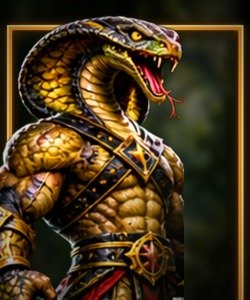
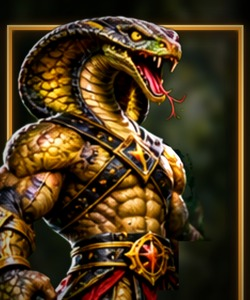
Build 5.9: Snake select card shows his right arm
Claude-Session: https://claude.ai/code/session_01Wp8cgZvzavvyA9CxcdgKRp

diff --git a/game/index.html b/game/index.html
@@ -9,15 +9,15 @@
   <meta property="og:description" content="11 armored beasts. One crown. Can you climb the Tower? Free in your browser on phone, PC or controller. No download.">
   <meta property="og:image" content="https://kingofthejunglegame.netlify.app/og-cover.jpg?v=3"><meta property="og:image:width" content="1200"><meta property="og:image:height" content="630">
   <meta name="twitter:card" content="summary_large_image"><meta name="twitter:image" content="https://kingofthejunglegame.netlify.app/og-cover.jpg?v=3">
-  <link rel="stylesheet" href="styles.css?v=5.8">
+  <link rel="stylesheet" href="styles.css?v=5.9">
 </head>
 <body>
-  <div id="splash" aria-hidden="true"><div class="splash-blur"></div><img src="assets/ui/cover.webp?v=5.8" alt="King of the Jungle cover art"><div class="splash-hint">OR PRESS ANY KEY / BUTTON</div></div>
+  <div id="splash" aria-hidden="true"><div class="splash-blur"></div><img src="assets/ui/cover.webp?v=5.9" alt="King of the Jungle cover art"><div class="splash-hint">OR PRESS ANY KEY / BUTTON</div></div>
   <script>(function(){var s=document.getElementById('splash'),done=0;function go(e){if(done)return;done=1;if(e){e.preventDefault&&e.preventDefault();e.stopPropagation&&e.stopPropagation()}s.classList.add('out');setTimeout(function(){s.remove()},700)}
   s.addEventListener('pointerdown',go);addEventListener('keydown',function(e){if(!done){go(e)}},{capture:true,once:true});(function pad(){if(done)return;var g=navigator.getGamepads?[].slice.call(navigator.getGamepads()):[];if(g.some(function(x){return x&&x.buttons.some(function(b){return b.pressed})})){go();return}requestAnimationFrame(pad)})()})();</script>
   <div id="backdrop" aria-hidden="true"><div class="bd-img bd-a"></div><div class="bd-img bd-b"></div><div class="bd-rays"></div><div class="bd-vignette"></div><canvas id="bd-embers"></canvas></div>
   <main id="app">
-    <header class="topbar"><img class="brand-crown" src="assets/ui/crown.webp" alt=""><div><div class="eyebrow">A LEGACY UNLEASHED</div><h1>KING OF THE JUNGLE</h1></div><div class="build-tag">WEB BUILD · 5.8</div></header>
+    <header class="topbar"><img class="brand-crown" src="assets/ui/crown.webp" alt=""><div><div class="eyebrow">A LEGACY UNLEASHED</div><h1>KING OF THE JUNGLE</h1></div><div class="build-tag">WEB BUILD · 5.9</div></header>
     <section id="menu" class="screen cover">
       <div class="cover-bg"></div><div class="cover-rays"></div><canvas id="embers" class="cover-embers"></canvas><div class="cover-vignette"></div>
       <div class="cover-hero"><div class="hero-glow"></div><img src="assets/characters/lion/lion-hero.webp" alt="The Lion, King of the Jungle"></div>
@@ -38,7 +38,7 @@
         </div>
       </div>
       <div class="cover-roster"><span>11 FIGHTERS · ONE THRONE</span><div id="cover-faces"></div></div>
-      <div class="cover-meta"><span id="cover-build">WEB BUILD · 5.8</span><span>© King of the Jungle · J. Hardy</span></div>
+      <div class="cover-meta"><span id="cover-build">WEB BUILD · 5.9</span><span>© King of the Jungle · J. Hardy</span></div>
     </section>
     <section id="select" class="screen hidden">
       <div class="section-head"><p class="eyebrow">CHARACTER SELECT</p><h2>CHOOSE YOUR FIGHTER</h2><p id="select-instruction">Player 1: choose a fighter</p></div>
@@ -66,7 +66,7 @@
     <section id="champion" class="screen champion-screen hidden"><canvas id="champ-canvas"></canvas><div class="champ-text"><p class="eyebrow">TOWER CONQUERED</p><h2>KING OF THE JUNGLE</h2><p class="champ-name" id="champ-name"></p><p id="champ-copy"></p><p id="champ-crowns" class="champ-crowns"></p><p id="champ-unlock" class="champ-unlock hidden">NEW FIGHTER UNLOCKED · MAJIC IS NOW PLAYABLE</p></div><div id="champ-credits" class="champ-credits"></div><button id="champ-continue" class="primary champ-continue">CONTINUE</button></section>
     <footer><span>© KING OF THE JUNGLE</span><span>Created and Developed by J. Hardy</span></footer>
   </main>
-  <script src="js/roster.js?v=5.8"></script><script src="js/story.js?v=5.8"></script><script src="js/sprites-hd.js?v=5.8"></script><script src="js/audio.js?v=5.8"></script><script src="js/game.js?v=5.8"></script>
+  <script src="js/roster.js?v=5.9"></script><script src="js/story.js?v=5.9"></script><script src="js/sprites-hd.js?v=5.9"></script><script src="js/audio.js?v=5.9"></script><script src="js/game.js?v=5.9"></script>
 <script>(function(){var last=0;
 document.addEventListener('gesturestart',function(e){e.preventDefault()},{passive:false});
 document.addEventListener('gesturechange',function(e){e.preventDefault()},{passive:false});

diff --git a/game/js/game.js b/game/js/game.js
@@ -5,7 +5,7 @@
    cinematic ULTRA COMBO finishers. Plus: portraits, Badger sprites, touch, gamepad, CPU, Tower. */
 (()=>{
 const $=id=>document.getElementById(id), roster=KOTJ_ROSTER, screens=['menu','select','stage','fight','result','champion','story'];
-const portrait=id=>'assets/characters/portraits/'+id+'.jpg?v=5.8';
+const portrait=id=>'assets/characters/portraits/'+id+'.jpg?v=5.9';
 let mode='versus',step=1,picks=[roster[6],roster[1]],chosen=picks[0],game=null,raf=0,paused=false,last=0,time=99;
 let tower=null;
 const cam={x:0,y:0,z:1,snap:true};

diff --git a/docs/art-tools/make_portraits_new_three.py b/docs/art-tools/make_portraits_new_three.py
@@ -2,15 +2,16 @@ import sys,onnxruntime as ort,numpy as np
 from PIL import Image,ImageDraw,ImageFilter,ImageEnhance
 sess=ort.InferenceSession('/tmp/u2net.onnx',providers=['CPUExecutionProvider'])
 U='/mnt/user-data/uploads/'
-C={'snake':dict(f=U+'ecfac112-image.jpg',fig=(0,0,600,1033),notext=(560,640),face=(470,140),belt=(500,725),bg=(600,230,1080,640)),
+C={'snake':dict(f=U+'ecfac112-image.jpg',fig=(0,0,700,1033),face=(470,140),belt=(500,725),bg=(600,230,1080,640)),
    'stag': dict(f=U+'4563bb55-image.jpg',fig=(0,20,640,1211),face=(403,242),belt=(497,699),bg=(600,230,1080,650),span=375,fy=190),
    'eagle':dict(dx=95,f=U+'4ecefc2d-image.jpg',fig=(0,20,880,1037),notext=(650,560),face=(564,180),belt=(588,720),bg=(880,250,1080,650))}
 def card(cid):
   c=C[cid];src=Image.open(c['f']).convert('RGB')
-  if cid=='eagle':   # paint out the 'THE EAGLE / THE SKY REAPER' lettering so the wing stays whole
+  if cid in ('eagle','snake'):   # paint out the 'THE EAGLE / THE SKY REAPER' lettering so the wing stays whole
     import cv2,scipy.ndimage as nd
     a=np.array(src);r,g,b=[a[...,k].astype(int) for k in range(3)]
     txt=np.zeros(r.shape,bool);reg=np.zeros(r.shape,bool);reg[660:900,620:1060]=True
+    if cid=='snake':reg[:]=False;reg[640:930,680:1060]=True
     txt[reg]=(((r>200)&(g>150)&(b<120))|((r>200)&(g>200)&(b>200)))[reg]
     txt=nd.binary_dilation(txt,iterations=4)
     a=cv2.inpaint(a,txt.astype(np.uint8)*255,7,cv2.INPAINT_TELEA);src=Image.fromarray(a)
@@ -19,6 +20,14 @@ def card(cid):
   x=np.array(crop.resize((1024,1024),Image.LANCZOS)).astype(np.float32)/255-.5
   o=sess.run(None,{sess.get_inputs()[0].name:x.transpose(2,0,1)[None]})[0][0,0];o=(o-o.min())/(o.max()-o.min())
   mask=Image.fromarray((o*255).astype(np.uint8)).resize(crop.size,Image.LANCZOS)
+  if cid=='snake':   # his shaded right arm, which the cut-out tool treats as background
+    am=Image.new('L',crop.size,0);ImageDraw.Draw(am).polygon([(540,405),(598,418),(626,470),(634,560),(655,600),(660,690),(600,700),(560,690),(540,560)],fill=255)
+    am=np.array(am.filter(ImageFilter.GaussianBlur(3)));cc=np.array(crop).astype(int)
+    notgreen=~((cc[...,1]>cc[...,0]+12)&(cc[...,1]>cc[...,2]))
+    mm=np.maximum(np.array(mask),(am*notgreen).astype(np.uint8))
+    lift=Image.fromarray(np.clip(cc*1.0,0,255).astype(np.uint8));lift=ImageEnhance.Brightness(lift).enhance(1.7)
+    crop=Image.composite(lift,crop,Image.fromarray((am*notgreen*.85).astype(np.uint8)).filter(ImageFilter.GaussianBlur(6)))
+    mm[640:,682:]=0;mm[700:,585:]=0;mm[845:,520:]=0;mask=Image.fromarray(mm).filter(ImageFilter.GaussianBlur(1))
   if cid=='eagle':
     mm=np.array(mask);mm[742-c['fig'][1]:,770-c['fig'][0]:]=0;mask=Image.fromarray(mm).filter(ImageFilter.GaussianBlur(1.5))
   if 'notext' in c:   # title lettering next to the fighter

diff --git a/README.md b/README.md
@@ -347,3 +347,6 @@ The fight system is rebuilt around KI-style combo mechanics, with original names
 
 ## Web build 5.8: Waist-up cards for Snake, Eagle and Stag
 - The three unlockable fighters' select cards now match the roster: cut out from their character art, framed head to belt buckle in front of the glowing gold square frame, over a blurred view of their home (jungle, stormy sky, forest). Their art's title lettering is painted out, so the Eagle's wing stays whole. Tool: `docs/art-tools/make_portraits_new_three.py`.
+
+## Web build 5.9: Snake card shows both arms
+- The Snake's shaded right arm, which the cut-out had dropped as background, is restored and lightened to match his body, so his card shows both arms like the other fighters.
